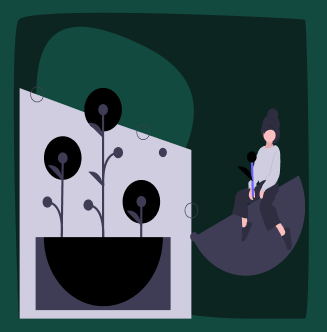
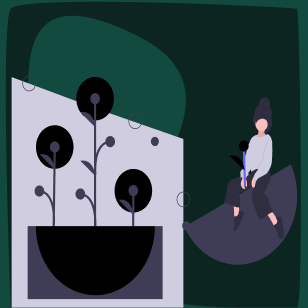
style(frontend): adjust image sizes

diff --git a/Frontend/components/Onboarding/OnboardingItem.tsx b/Frontend/components/Onboarding/OnboardingItem.tsx
@@ -41,11 +41,12 @@ const styles = StyleSheet.create({
         alignItems: 'center',
     },
     image: {
-        aspectRatio: 1,
+        width: 350,
+        height: 350
     },
     image2: {
-        aspectRatio: 1,
-        flex: 0.4
+        width: 200,
+        height: 200
     },
     textContainer: {
         alignItems: 'center',
